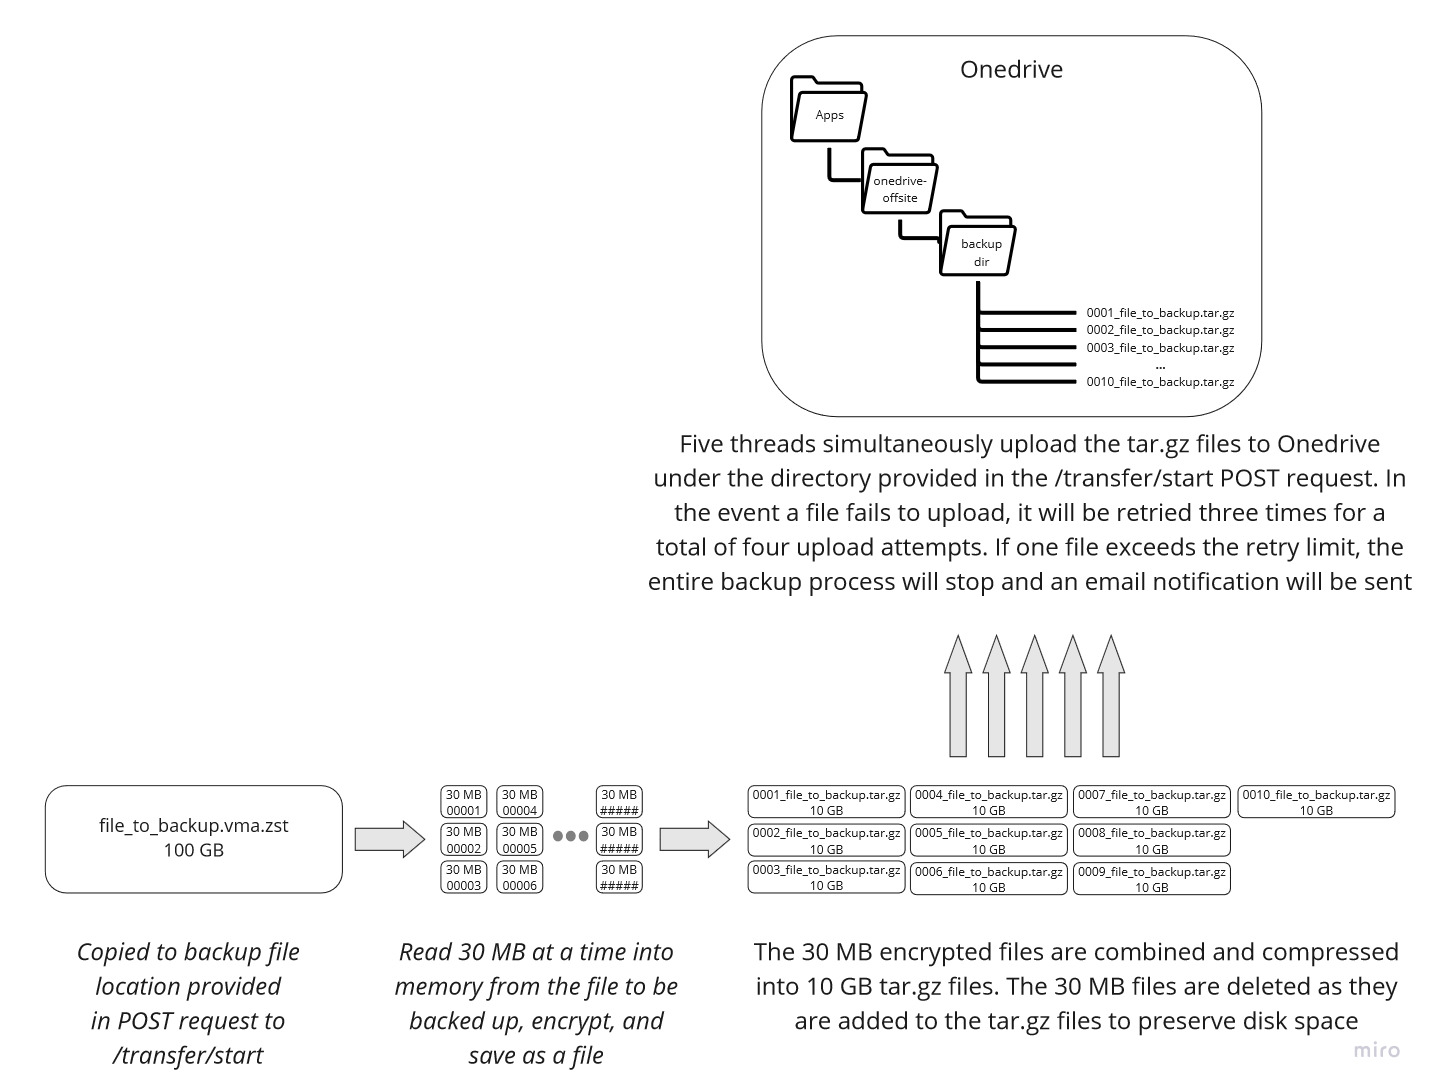
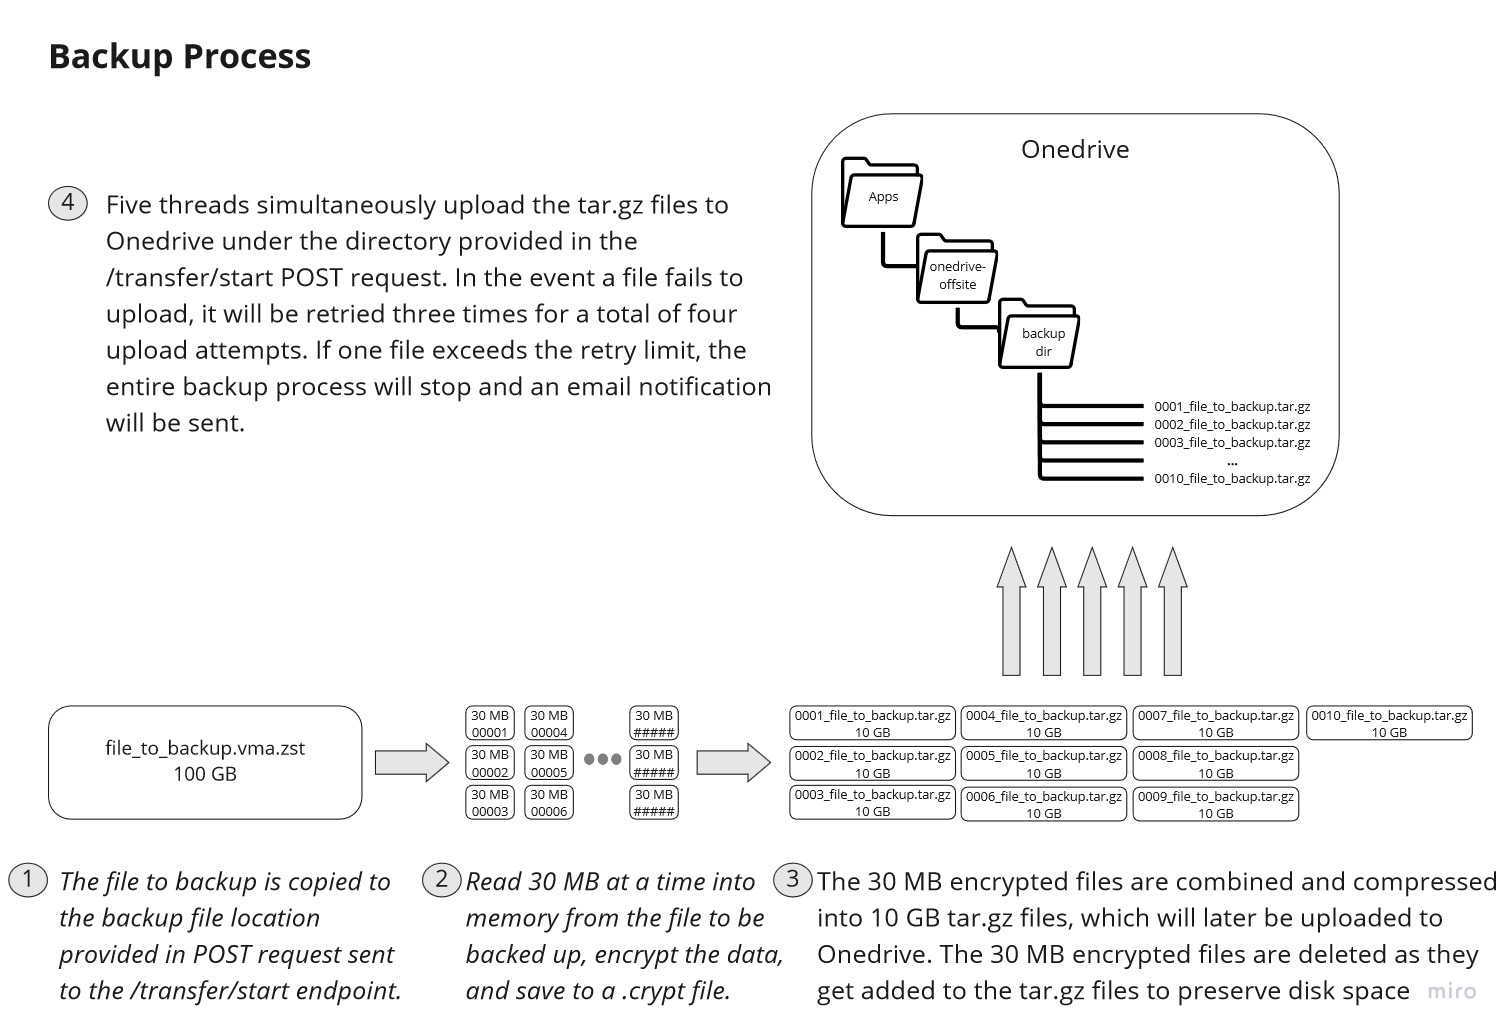
updated version to 1.0.0 since we have been running in production for a while, added more detail to the backup process diagram image, fixed typos in README

diff --git a/setup.py b/setup.py
@@ -5,7 +5,7 @@ with open("README.md", "r") as fh:
 
 setup(
     name='onedrive-offsite',
-    version='0.2.1', # directory retry
+    version='1.0.0', # moving to major version 1 since we have been running in production for a while
     description="Application to automatically encrypt backup files (ex: vma.zst from Proxmox) and push them to Microsoft OneDrive.",
     long_description=readme_long_description,
     long_description_content_type="text/markdown",
@@ -33,7 +33,7 @@ setup(
         'dev': ['coverage']
     },
 
-    python_requires = '>=3.7.*',
+    python_requires = '>=3.8.*',
 
     classifiers=[
         'License :: OSI Approved :: MIT License',

diff --git a/README.md b/README.md
@@ -21,7 +21,7 @@ onedrive-offsite is an application that encrypts backup files (ex: vma.zst from 
  - [Install and setup guide](#install-and-setup-guide)
  - [API endpoints](#api-endpoints)
  - [Developing and testing](#developing-and-testing)
- - [Toplogy diagrams](#topology-diagrams)
+ - [Topology diagrams](#topology-diagrams)
  - [How to register an app in Microsoft Azure portal](#how-to-register-an-app-in-microsoft-azure-portal)
  - [Example bash scripts](#example-bash-scripts)
 
@@ -53,27 +53,27 @@ To successfully deploy onedrive-offsite you will need the following:
 
 ### Register app with Microsoft
 
-For an application to be able to use Microsoft's Graph API and Oauth, it first has to be registered in the Azure portal. This is how Microsoft keeps track of applications that are accessing its resources and asking Microsoft account holders to grant access. To register the application, go to <a href="https://portal.azure.com">portal.azure.com</a>, login with your Microsoft account, and register a new application. You will need the client ID and client secret created during registration to setup onedrive-offsite. For detailed instructions for registring an application with the Azure Portal, see the [How to - Register an app in Microsoft Azure Portal](#how-to-register-an-app-in-microsoft-azure-portal) section.
+For an application to be able to use Microsoft's Graph API and Oauth, it first has to be registered in the Azure portal. This is how Microsoft keeps track of applications that are accessing its resources and asking Microsoft account holders to grant access. To register the application, go to <a href="https://portal.azure.com">portal.azure.com</a>, login with your Microsoft account, and register a new application. You will need the client ID and client secret created during registration to setup onedrive-offsite. For detailed instructions for registering an application with the Azure Portal, see the [How to - Register an app in Microsoft Azure Portal](#how-to-register-an-app-in-microsoft-azure-portal) section.
 
 ### Setup your environment
  - Setup a linux machine with docker and docker compose installed
  - Decide where on the docker host you want to store the files that need to be backed up. 
      - You will need to consider how much disk space is required to temporarily store the files you intend to backup, as well as intermediate files generated during the offsite backup process.
     - **Disk space requirements:** backup file size x 2.3
-    - **Example:** if you have a 100 GB file you want to backup, you will need enough disk space to store a copy of the 100 GB file, plus enough space to temporarily store 130 GB during the encryptiong process.
+    - **Example:** if you have a 100 GB file you want to backup, you will need enough disk space to store a copy of the 100 GB file, plus enough space to temporarily store 130 GB during the encrypting process.
     - The backup files that get sent to Onedrive will only be about 1% larger than the original backup files, but before compression the encrypted files are 30% larger than the originals.
     - **Note: Files to be backed up are deleted after the backup process runs - this shouldn't be your only copy of the files you want to backup.**
  - There are three likely scenarios for onedrive-offsite to access the files to be backed up:
     1. The files we want to backup to Onedrive are stored on the docker host machine that will run our onedrive-offsite application container and can easily be copied to the onedrive-offsite backup working directory
     2. Our docker host machine has access to a network share with the files we want to backup to Onedrive, and can easily copy the files to the working directory
     3. The files we want to backup to Onedrive are stored on a machine running on the same network as our docker host and we can transfer files to the application container using scp
- - See the [Topology diagrams](#topology-diagrams) secion below for a further illustration of possible enviroment configurations
+ - See the [Topology diagrams](#topology-diagrams) section below for a further illustration of possible enviroment configurations
 
 ### Build the docker image
  - Clone this project to your docker host machine
  - Edit the email information in src/onedrive_offsite/config.py
  - Review the Dockerfile
-     - Set the timezone you want in the ENVS section
+     - Set the time zone you want in the ENVS section
      - If you don't plan to send files directly to your onedrive-offsite container via scp, you could comment out the entire SSH section and modify the ENTRYPOINT to eliminate the ssh service restart and key gen.
  - Build the docker image
      - Move into the root of the onedrive-offsite project directory
@@ -101,8 +101,8 @@ For an application to be able to use Microsoft's Graph API and Oauth, it first h
     ```  
  - Generate your encrpytion key
     - Run the `onedrive-offsite-create-key` command
-    - This will create the symmetric encryption key used to protect the files we will backup to Onedrive. Becasue this is a symmetric key, you should treat it like you would a password.
-    - You will want to save a copy of the key you just created in the event your docker host machine has a catasrophic failure, and you have to setup onedrive-offsite on a new machine. The key is saved in `/etc/onedrive-offsite/onedrive-offsite.key`
+    - This will create the symmetric encryption key used to protect the files we will backup to Onedrive. Because this is a symmetric key, you should treat it like you would a password.
+    - You will want to save a copy of the key you just created in the event your docker host machine has a catastrophic failure, and you have to setup onedrive-offsite on a new machine. The key is saved in `/etc/onedrive-offsite/onedrive-offsite.key`
     - Note that the /etc/onedrive-offsite directory is mapped to a docker volume so that the key will persist between container restarts.
  - Setup your app configuration
     - Make sure you have your app client ID and client secret handy from the app registration process
